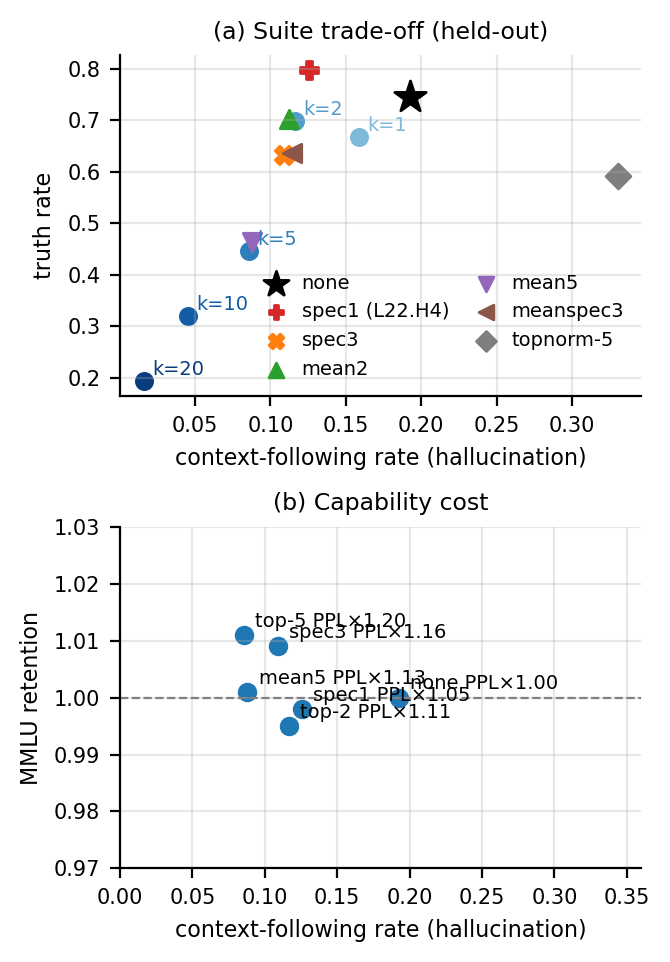
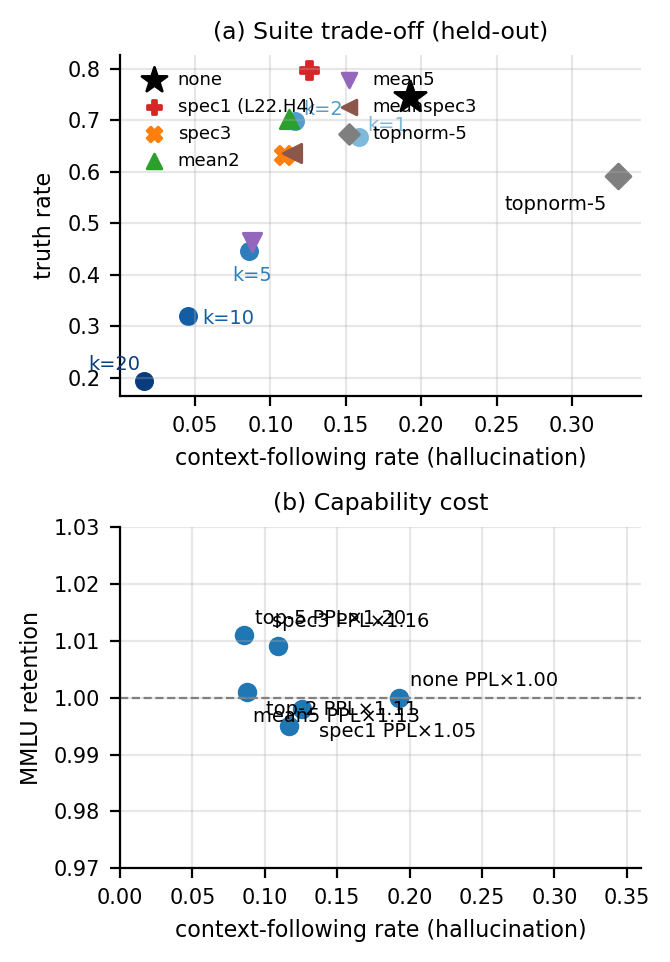
R3 item 8: table4 % note, PPL range 5-20, fig4 staggered labels+legend

diff --git a/scripts/make_figures.py b/scripts/make_figures.py
@@ -83,11 +83,12 @@ def fig4():
     ax = axes[0]
     base = r1["none"]
     ax.scatter(base["follow_rate"], base["truth_rate"], marker="*", s=140, c="k", label="none", zorder=5)
+    k_off = {"1": (3, 2), "2": (3, 2), "5": (-6, -11), "10": (5, -3), "20": (-20, 4)}
     for k, c in zip(("1", "2", "5", "10", "20"), plt.cm.Blues(np.linspace(0.45, 0.95, 5))):
         r = r1[f"top-{k}"]
         ax.scatter(r["follow_rate"], r["truth_rate"], color=c, s=34)
         ax.annotate(f"k={k}", (r["follow_rate"], r["truth_rate"]), fontsize=7,
-                    xytext=(3, 2), textcoords="offset points", color=c)
+                    xytext=k_off[k], textcoords="offset points", color=c)
     for name, m, col, lab in (("spec1", "P", "#d62728", "spec1 (L22.H4)"),
                               ("spec3", "X", "#ff7f0e", "spec3"),
                               ("mean2", "^", "#2ca02c", "mean2"),
@@ -98,10 +99,12 @@ def fig4():
     tn = r1["topnorm-5"]
     ax.scatter(tn["follow_rate"], tn["truth_rate"], marker="D", c="#7f7f7f", s=40,
                label="topnorm-5")
+    ax.annotate("topnorm-5", (tn["follow_rate"], tn["truth_rate"]), fontsize=7,
+                xytext=(-4, -12), textcoords="offset points", ha="right")
     ax.set(xlabel="context-following rate (hallucination)", ylabel="truth rate",
            title="(a) Suite trade-off (held-out)")
-    ax.legend(frameon=False, loc="lower right", ncol=2, columnspacing=0.9,
-              handletextpad=0.3, markerscale=0.8)
+    ax.legend(frameon=False, loc="upper left", ncol=2, columnspacing=0.9,
+              handletextpad=0.3, markerscale=0.8, fontsize=6.5)
 
     ax = axes[1]
     xs, ys, labels = [], [], []
@@ -112,8 +115,11 @@ def fig4():
         ys.append(cap[name]["mmlu_retention"])
         labels.append(f"{name} PPL×{cap[name]['ppl_ratio']:.2f}")
     ax.scatter(xs, ys, s=36)
-    for x, y, t in zip(xs, ys, labels):
-        ax.annotate(t, (x, y), fontsize=7, xytext=(4, 3), textcoords="offset points")
+    b_off = {"none": (4, 4), "spec1": (6, -10), "top-2": (-8, 4),
+             "top-5": (4, 4), "spec3": (-2, 7), "mean5": (2, -11)}
+    for name, x, y, t in zip(("none", "spec1", "top-2", "top-5", "spec3", "mean5"), xs, ys, labels):
+        ax.annotate(t, (x, y), fontsize=7, xytext=b_off[name],
+                    textcoords="offset points")
     ax.axhline(1.0, ls="--", c="gray", lw=0.8)
     ax.set(xlabel="context-following rate (hallucination)", ylabel="MMLU retention",
            title="(b) Capability cost", xlim=(0, 0.36), ylim=(0.97, 1.03))

diff --git a/paper/main.tex b/paper/main.tex
@@ -114,8 +114,8 @@ conflict-specialist heads with minimal neutral-control effect.
 knockout and mean-ablation, with fairness baselines: patching-guided
 selection reduces hallucination significantly (McNemar $p<10^{-6}$ even for
 a single head), whereas activation-norm selection \emph{increases} it;
-capability costs are dissociated (MMLU retention $\approx 1.00$; perplexity
-+11--20\%).
+capability costs are dissociated (MMLU retention $\approx 1.00$;
+perplexity +5--20\% across interventions).
 \end{itemize}
 
 \section{Related Work}
@@ -573,11 +573,11 @@ persuasion formats, with residual copy-mediated following as the honest
 boundary of the single-head approach.
 
 \begin{table}[t]
-\caption{Held-out interventions (\emodel{}, misleading template T0).
-$n{=}1{,}193$ misleading + $n{=}1{,}193$ neutral items per config;
-follow rates carry fact-clustered bootstrap 95\% CIs. Baselines differ
-from Table~\ref{tab:behavior} because this table covers held-out facts
-only.}
+\caption{Held-out interventions (\emodel{}, misleading template T0; all
+values \%). $n{=}1{,}193$ misleading + $n{=}1{,}193$ neutral items per
+config; follow rates carry fact-clustered bootstrap 95\% CIs. Baselines
+differ from Table~\ref{tab:behavior} because this table covers held-out
+facts only.}
 \label{tab:dose}
 \begin{center}
 \begin{tabular}{lccc}
